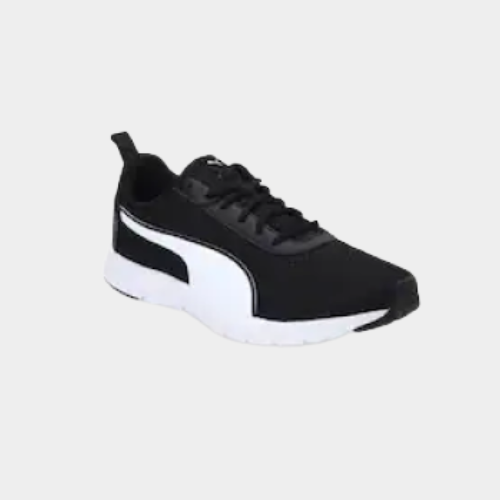
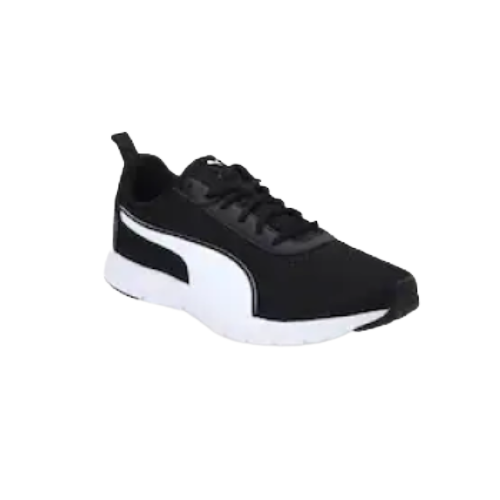
Adding new products to the carousel

diff --git a/src/components/Carousel/Carousel.css b/src/components/Carousel/Carousel.css
@@ -1,5 +1,7 @@
 h2 {
-    margin-top: 20px;
+    
+    margin-top:30px;
+    margin-bottom: 30px;
     text-align: center;
 }
 
@@ -32,17 +34,11 @@ h2 {
 .image img {
     width: 210px;
     height: 210px;
-    background-color: white;
     object-fit: cover;
     margin: 5px;
     cursor: pointer;
 }
 
-.image img:hover{
-    transform: filter 0.2s;
-    transition: ease-in-out 0.4s;
-    filter: brightness(0.9);
-}
 .buttons {
     display: flex;
     align-items: center;

diff --git a/src/components/Carousel/Carousel.jsx b/src/components/Carousel/Carousel.jsx
@@ -23,7 +23,7 @@ const Carousel = ({idCategory, idProduto}) => {
   const produtosFiltrados = data
     .filter((product) => product.product_category === idCategory 
     && product.id_product !== (idProduto) )
-    .slice(0, 5);
+    .slice(0, 10);
 
   return (
     <>
